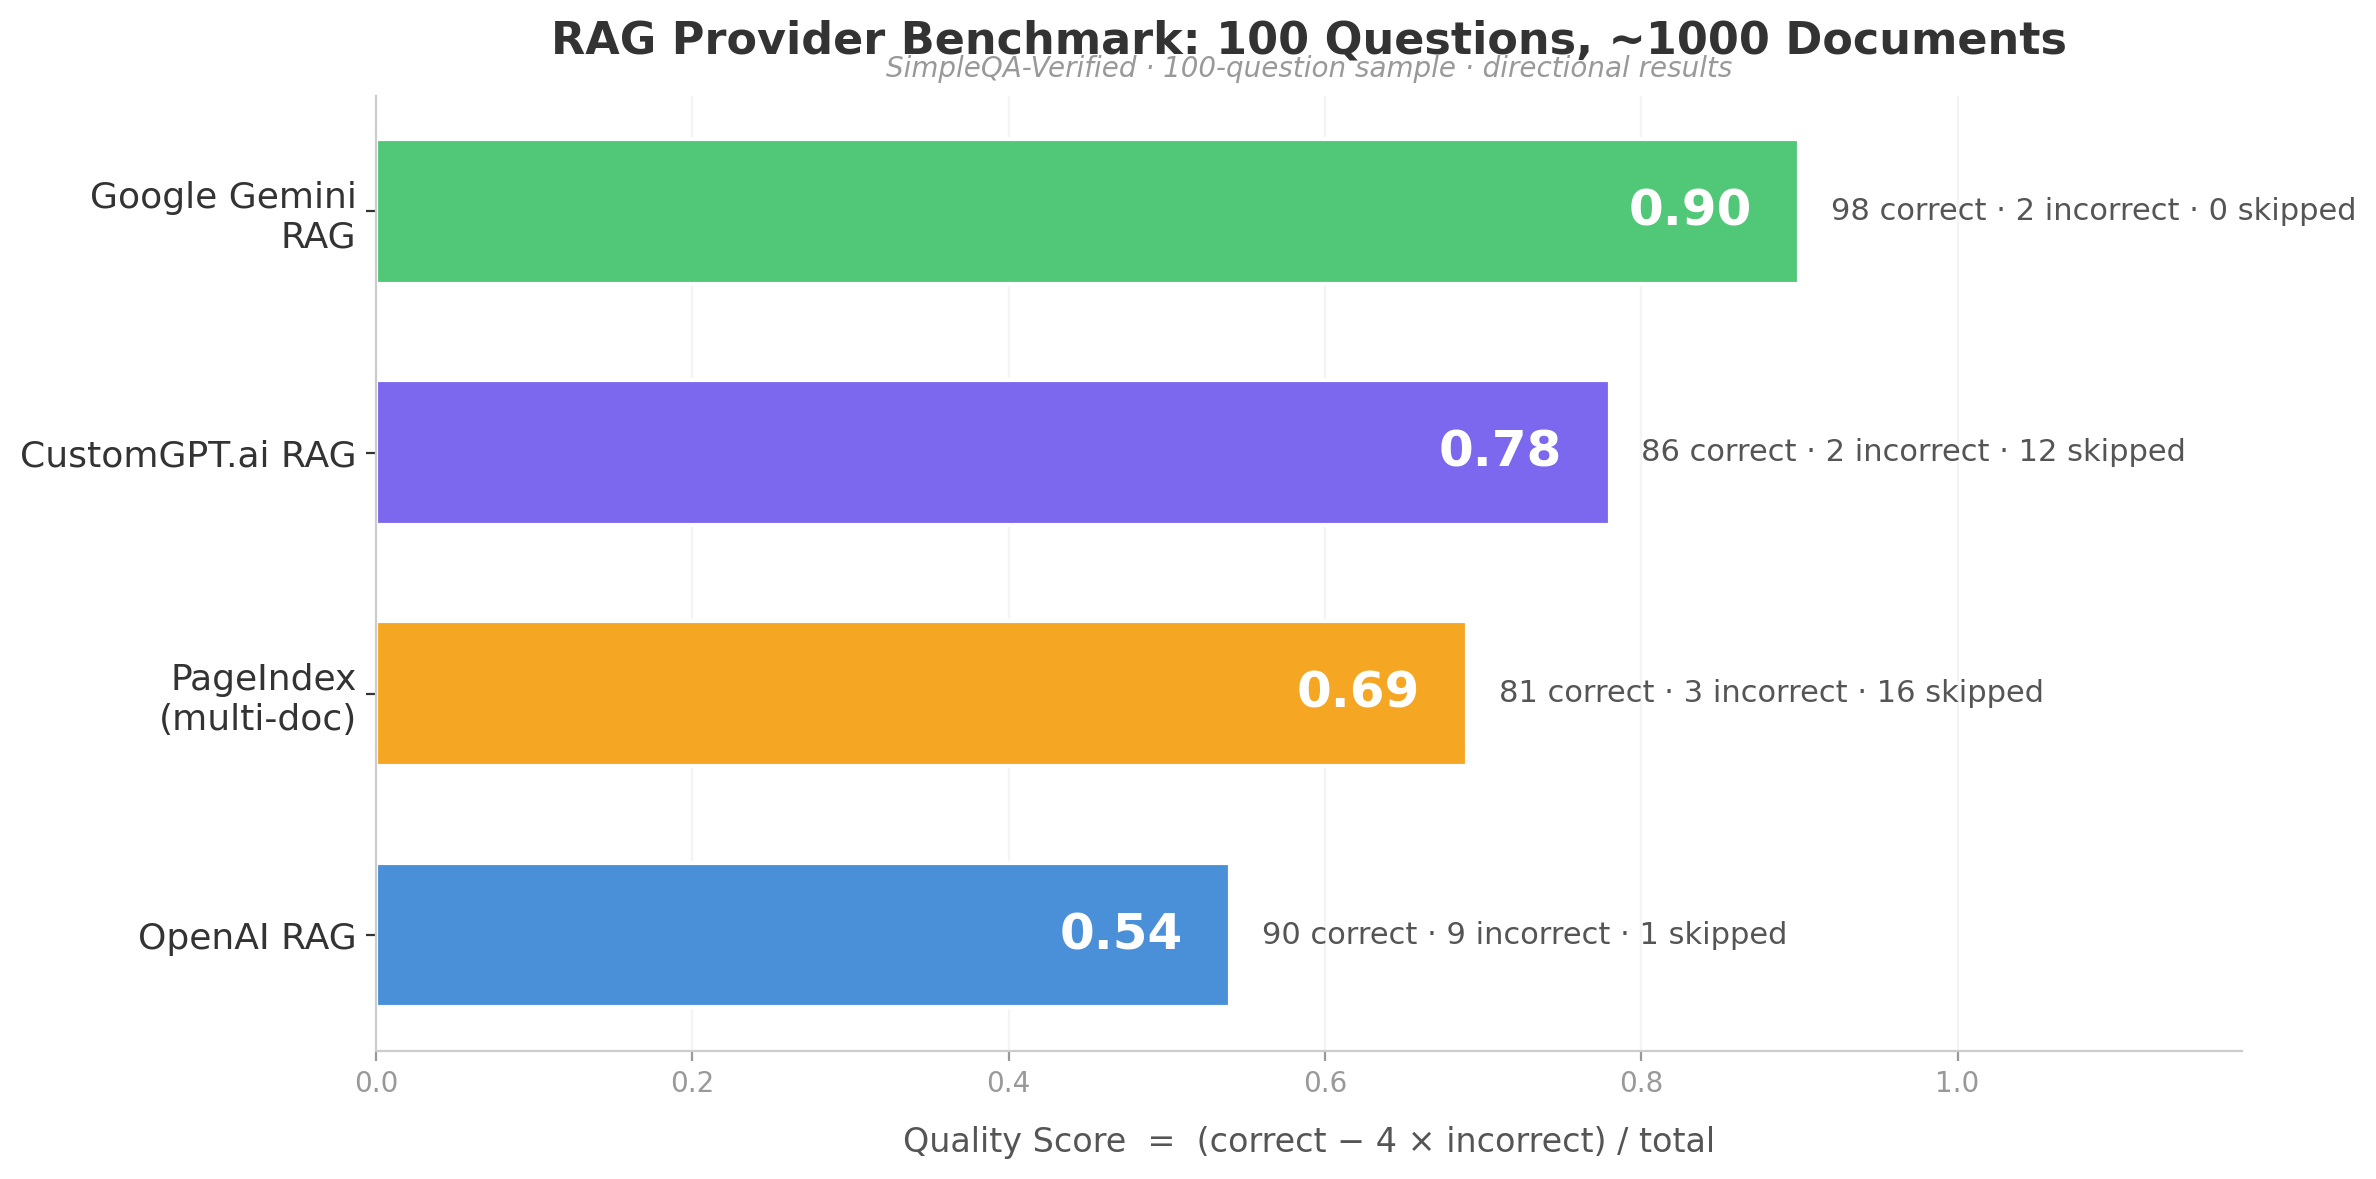
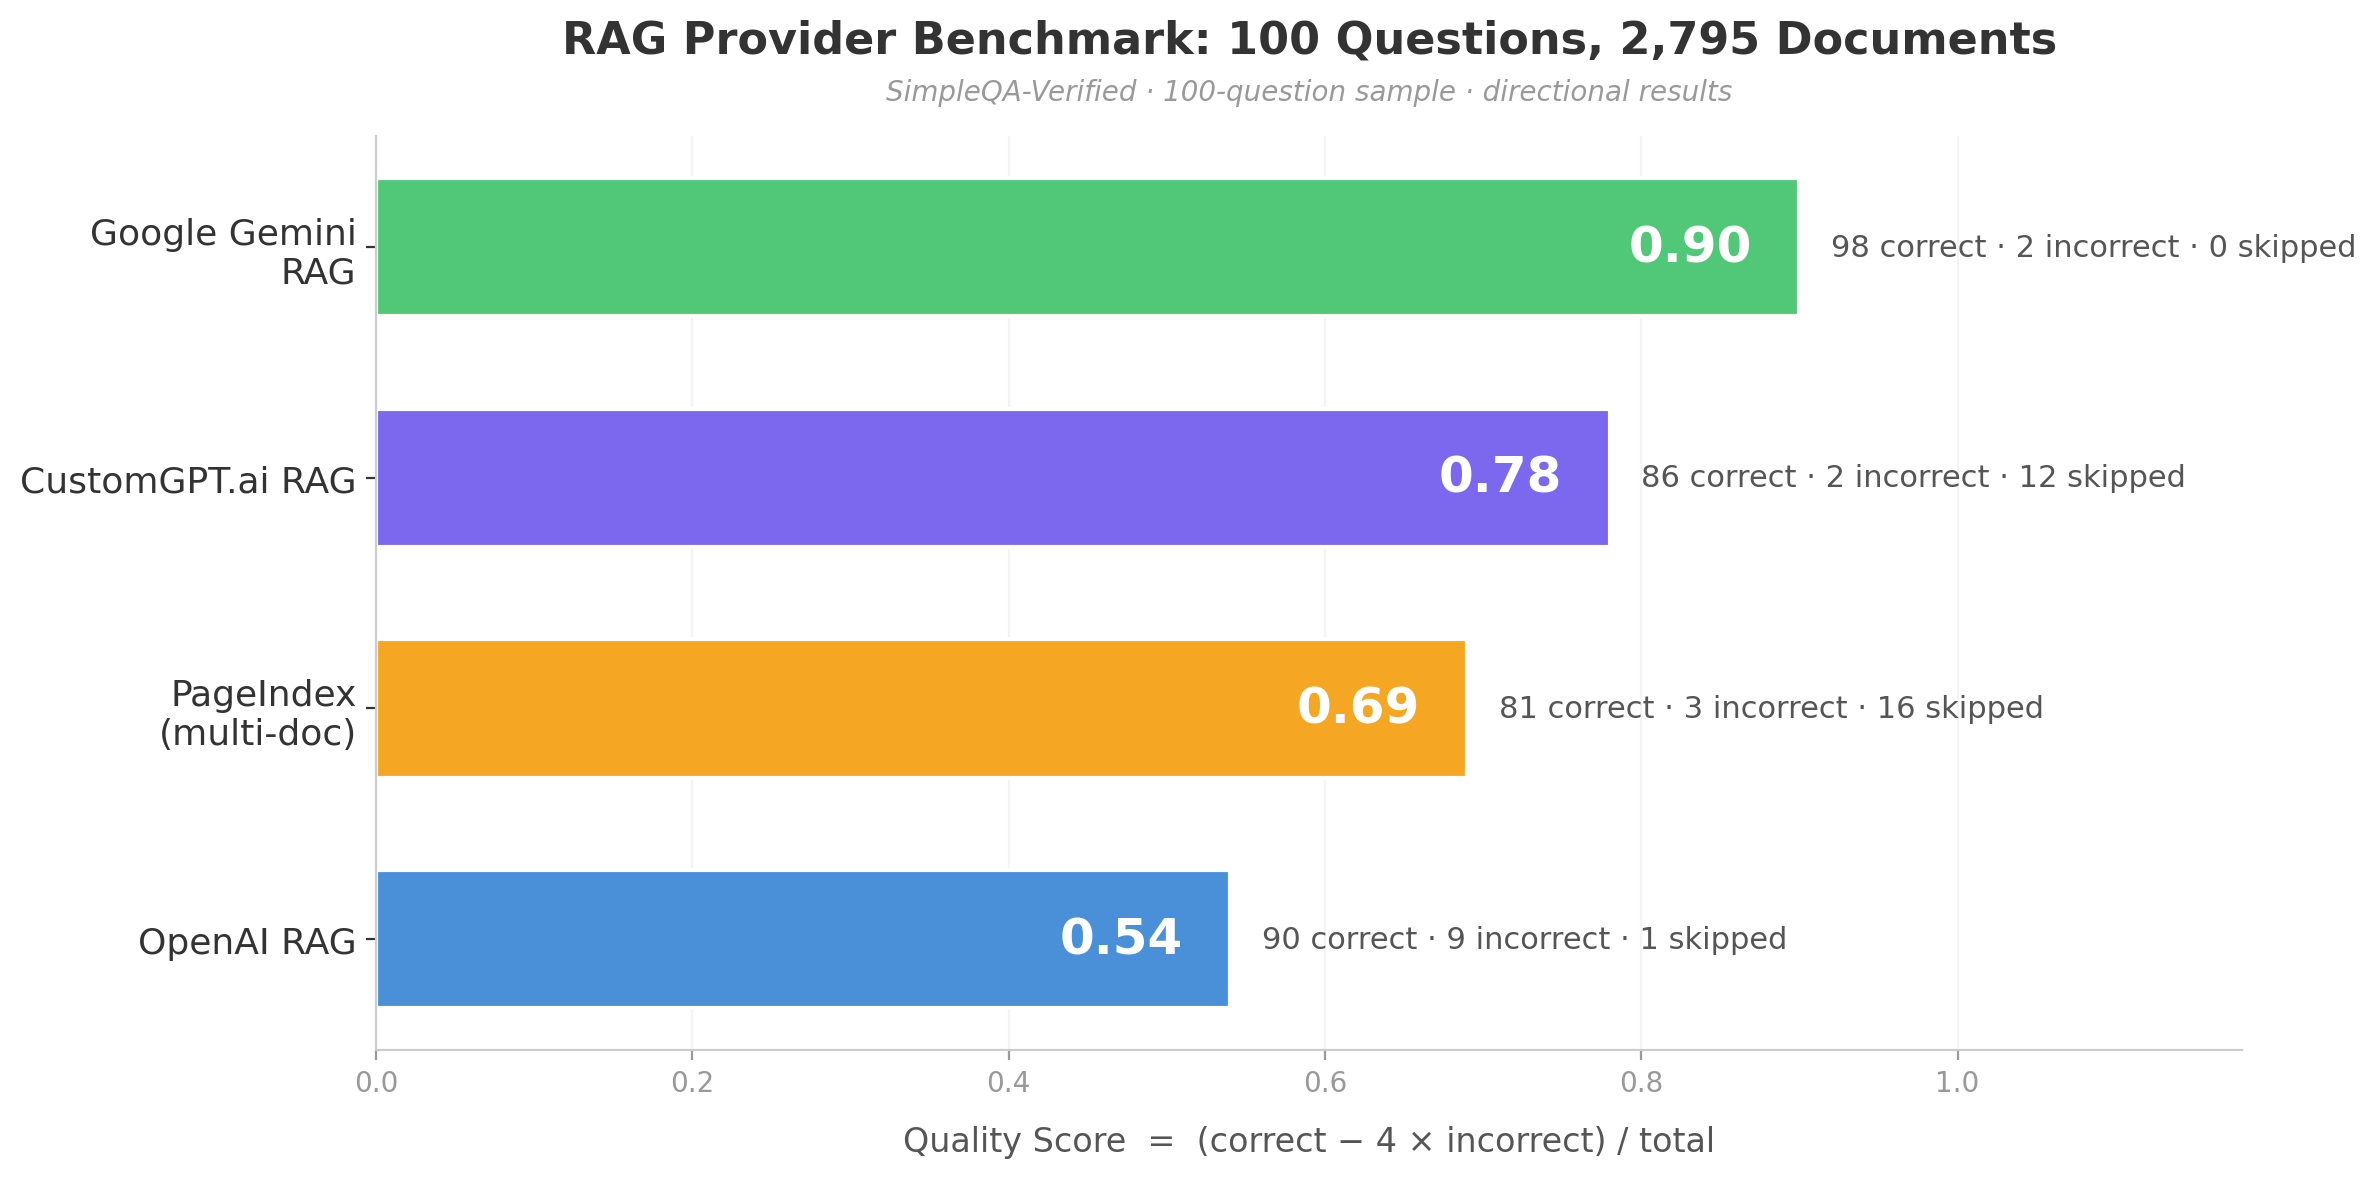
fix: chart title to 2,795 documents + subtitle spacing

diff --git a/scripts/generate_chart.py b/scripts/generate_chart.py
@@ -34,11 +34,11 @@ for bar, score, c, i, n in zip(bars, scores, correct, incorrect, not_attempted):
 # Styling
 ax.set_xlim(0, 1.18)
 ax.set_xlabel('Quality Score  =  (correct − 4 × incorrect) / total', fontsize=12, color='#555555', labelpad=10)
-ax.set_title('RAG Provider Benchmark: 100 Questions, ~1000 Documents',
-             fontsize=16, fontweight='bold', pad=15, color='#333333')
+ax.set_title('RAG Provider Benchmark: 100 Questions, 2,795 Documents',
+             fontsize=16, fontweight='bold', pad=30, color='#333333')
 
 # Subtitle
-ax.text(0.5, 1.02, 'SimpleQA-Verified · 100-question sample · directional results',
+ax.text(0.5, 1.04, 'SimpleQA-Verified · 100-question sample · directional results',
         transform=ax.transAxes, ha='center', fontsize=10, color='#999999', style='italic')
 
 # Clean up axes
